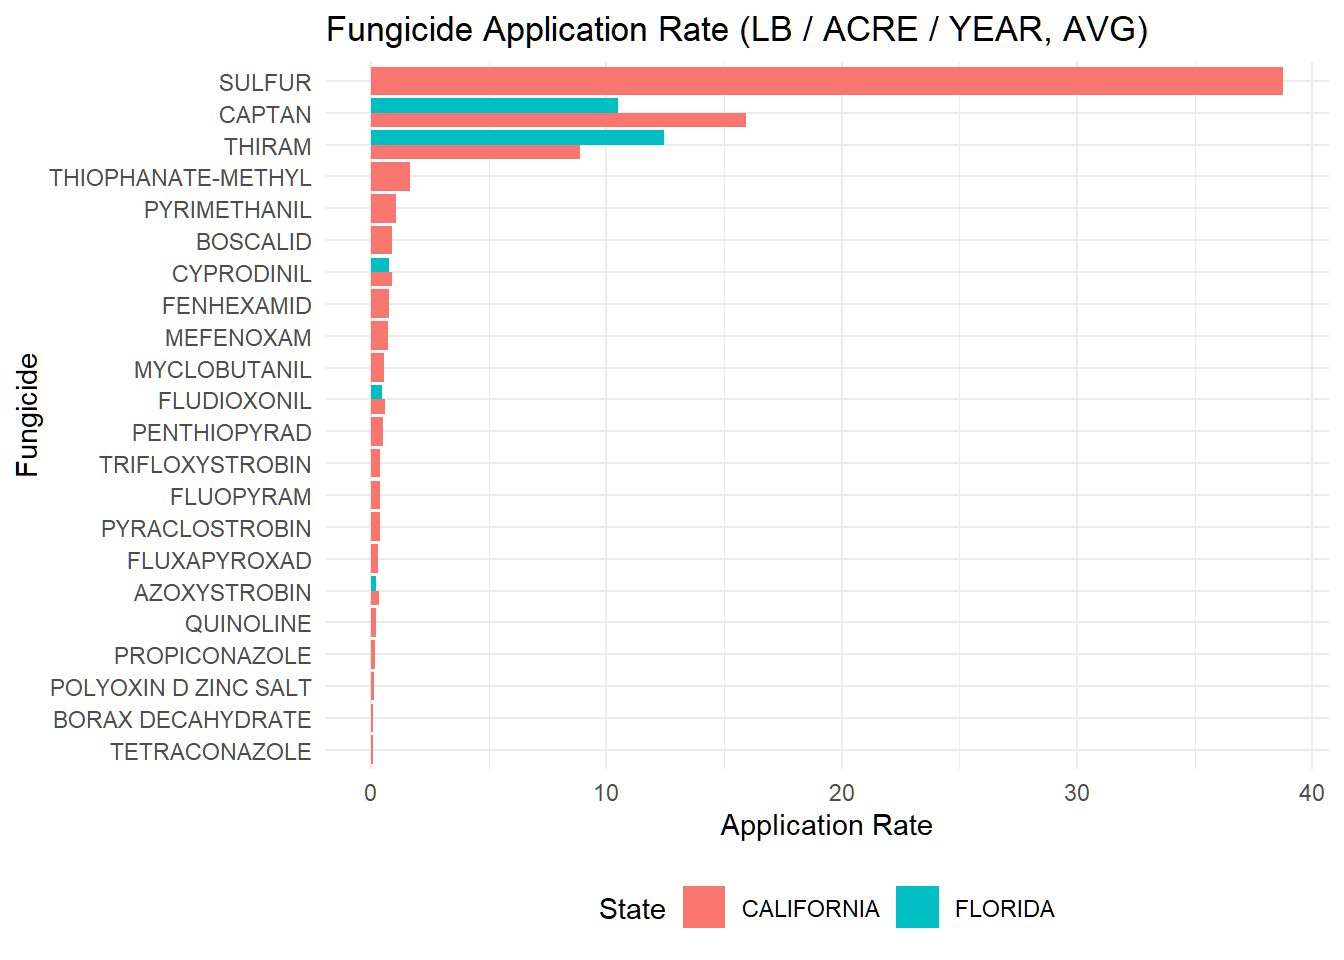
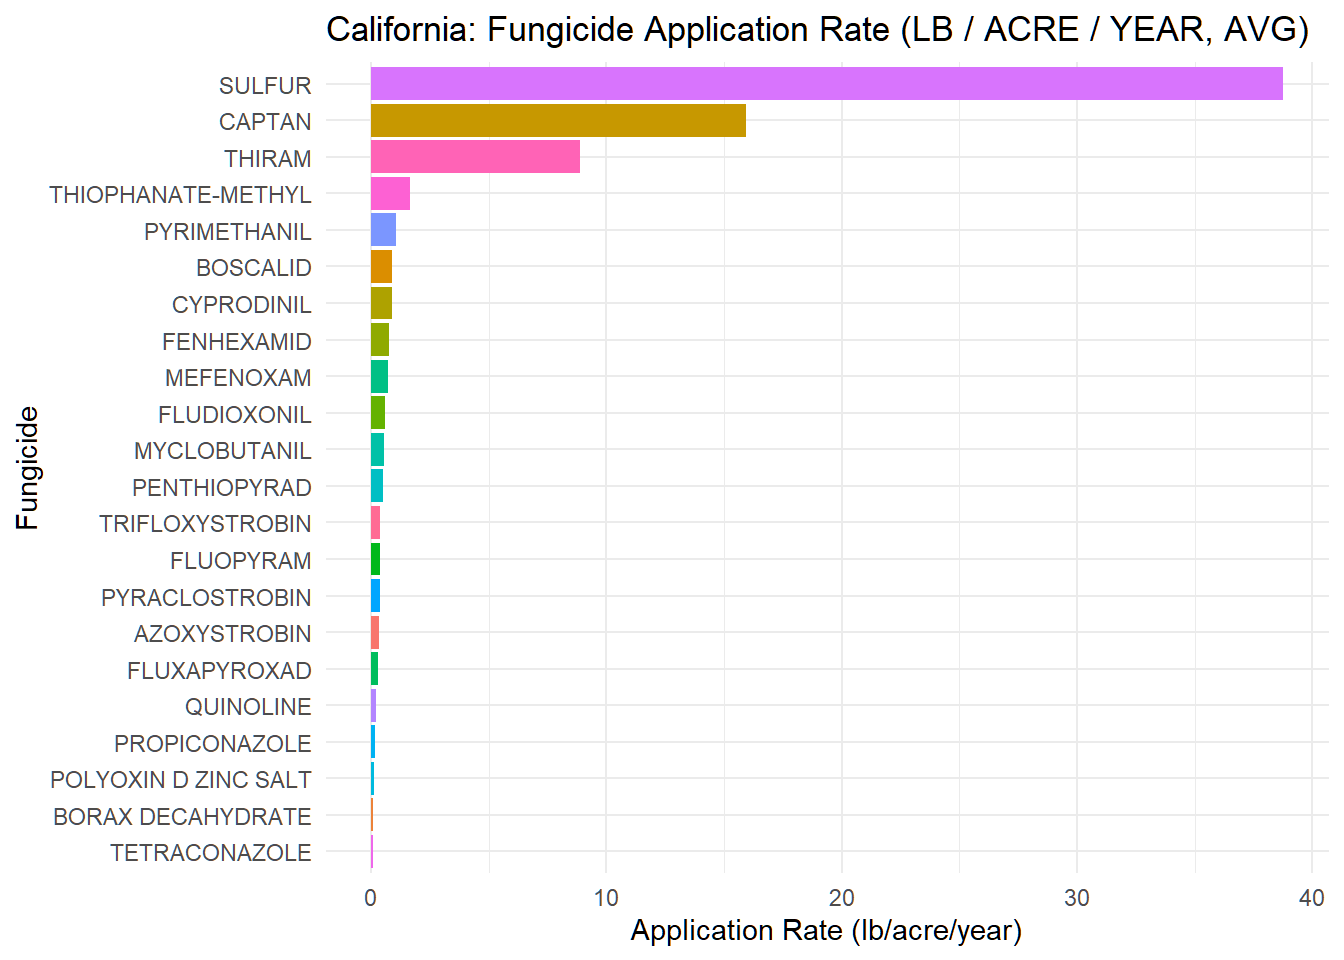
commit 1029 combined 3 version

diff --git a/strawberryfungicide.html b/strawberryfungicide.html
@@ -6,6 +6,9 @@
 
 <meta name="viewport" content="width=device-width, initial-scale=1.0, user-scalable=yes">
 
+<meta name="author" content="Tingji Tao">
+<meta name="author" content="Zhirui Gu">
+<meta name="author" content="Jizhou Zhang">
 
 <title>Strawberry Fungicide Analysis</title>
 <style>
@@ -52,6 +55,14 @@ ul.task-list li input[type="checkbox"] {
 
 <div class="quarto-title-meta">
 
+    <div>
+    <div class="quarto-title-meta-heading">Authors</div>
+    <div class="quarto-title-meta-contents">
+             <p>Tingji Tao </p>
+             <p>Zhirui Gu </p>
+             <p>Jizhou Zhang </p>
+          </div>
+  </div>
     
   
     
@@ -62,7 +73,16 @@ ul.task-list li input[type="checkbox"] {
 </header>
 
 
-<p>#First, take a look at the data from NASS</p>
+<section id="introduction" class="level1">
+<h1>Introduction</h1>
+<p>Strawberries represent one of the most economically important specialty crops in the United States, with production concentrated primarily in <strong>California</strong> and <strong>Florida</strong>. Effective disease management is essential to maintain yield and quality, and fungicides remain a central component of integrated pest management (IPM) strategies in both states. However, variations in climate, pest pressure, and regulatory frameworks have led to regional differences in fungicide usage intensity and composition.<br>
+</p>
+<p>This report analyzes recent fungicide application data from the USDA National Agricultural Statistics Service (NASS) to identify patterns and trends in the <strong>types, rates, and treated areas</strong> of fungicides used in California and Florida from <strong>2018 to 2023</strong>. The goal is to understand which fungicides dominate regional use, how their application levels have changed over time, and what these patterns imply for sustainable disease management in strawberry production.</p>
+<div style="page-break-after: always;"></div>
+</section>
+<section id="step-1-data-clean" class="level1">
+<h1>Step 1: Data Clean</h1>
+<p>First, take a look at the data from NASS</p>
 <div class="cell">
 <div class="cell-output cell-output-stdout">
 <pre><code>Rows: 758
@@ -90,7 +110,7 @@ $ Value            &lt;chr&gt; " (D)", " (D)", " (D)", "0.326", " (NA)", " (NA)"
 $ CV....           &lt;lgl&gt; NA, NA, NA, NA, NA, NA, NA, NA, NA, NA, NA, NA, NA, N…</code></pre>
 </div>
 </div>
-<p>#After scan the dataset, we noticed there are a lot of empty cols, so we decide to clean up these cols.</p>
+<p>After scan the dataset, we noticed there are a lot of empty cols, so we decide to clean up these cols.</p>
 <div class="cell">
 <div class="cell-output cell-output-stdout">
 <pre><code>[1] "col dropped:"
@@ -100,7 +120,7 @@ $ CV....           &lt;lgl&gt; NA, NA, NA, NA, NA, NA, NA, NA, NA, NA, NA, NA, N
 [13] "Commodity"        "Domain"           "CV...."          </code></pre>
 </div>
 </div>
-<p>#Then, check if there are other strange values</p>
+<p>Then, check if there are other strange values</p>
 <div class="cell">
 <div class="cell-output cell-output-stdout">
 <pre><code>Rows: 758
@@ -113,8 +133,8 @@ $ Domain.Category &lt;chr&gt; "CHEMICAL, FUNGICIDE: (OXATHIAPIPROLIN = 128111)",
 $ Value           &lt;chr&gt; " (D)", " (D)", " (D)", "0.326", " (NA)", " (NA)", " (…</code></pre>
 </div>
 </div>
-<p>#Some of the values are labeled as (D), which means they were withheld to avoid disclosing data for individual operations. #These entries are removed to retain only the usable and publicly available data for analysis.</p>
-<p>#Lastly, separate Domain.category and Data.item to get a clearer data set</p>
+<p>Some of the values are labeled as (D) and (NA), which means they were withheld to avoid disclosing data for individual operations. These entries are removed to retain only the usable and publicly available data for analysis.</p>
+<p>Lastly, separate Domain.category and Data.item to get a clearer data set</p>
 <div class="cell">
 <div class="cell-output cell-output-stdout">
 <pre><code>  Year      State State.ANSI          Chem_Group         Fungicide   Code
@@ -133,10 +153,12 @@ $ Value           &lt;chr&gt; " (D)", " (D)", " (D)", "0.326", " (NA)", " (NA)",
 6  0.753 APPLICATIONS LB / ACRE / YEAR, AVG     BEARING</code></pre>
 </div>
 </div>
-<p>#The data set now is perfectly cleaned and time for some analysis</p>
+<p>The data set now is perfectly cleaned and time for some analysis</p>
 <div style="page-break-after: always;"></div>
-<p>##Some EDAs</p>
-<p>#We want to find the most popular fungicide for both states, let’s focus on 2023 data</p>
+</section>
+<section id="step-2-edas" class="level1">
+<h1>Step 2: EDAs</h1>
+<p>We want to find the most popular fungicide for both states, let’s focus on 2023 data</p>
 <section id="fungicide-comparison-by-measurement-type2023" class="level2">
 <h2 class="anchored" data-anchor-id="fungicide-comparison-by-measurement-type2023">Fungicide Comparison by Measurement Type(2023)</h2>
 <div class="cell">
@@ -147,12 +169,16 @@ $ Value           &lt;chr&gt; " (D)", " (D)", " (D)", "0.326", " (NA)", " (NA)",
 </figure>
 </div>
 </div>
+<div class="cell-output-display">
+<div>
+<figure class="figure">
+<p><img src="strawberryfungicide_files/figure-html/2023fungicide%20LB/ACRE/YEAR,%20avg%20plot-2.png" class="img-fluid figure-img" width="672"></p>
+</figure>
 </div>
-<p>This bar chart compares the average fungicide application rate (in pounds per acre per year) across different active ingredients in California and Florida.</p>
-<p>Sulfur stands out overwhelmingly, with an average rate near 40 lb/acre/year in California — far higher than any other fungicide.</p>
-<p>Captan and Thiram follow, both above 10 lb/acre/year, and are used in both states.</p>
-<p>All other fungicides (e.g., Boscalid, Fludioxonil, Fenhexamid) show application rates below 2 lb/acre/year, indicating much lighter use.</p>
-<p>Florida’s bars appear shorter for most fungicides, suggesting lower per-acre application intensity compared to California.</p>
+</div>
+</div>
+<p>This bar chart compares the average fungicide application rate (in pounds per acre per year) across different active ingredients in California and Florida. Sulfur stands out overwhelmingly, with an average rate near 40 lb/acre/year in California — far higher than any other fungicide. Captan and Thiram follow, both above 10 lb/acre/year, and are used in both states. All other fungicides (e.g., Boscalid, Fludioxonil, Fenhexamid) show application rates below 2 lb/acre/year, indicating much lighter use.</p>
+<p>The other figure shows the average application rate of each fungicide in Florida. Thiram and Captan exhibit the highest per-acre usage intensity, while other fungicides such as Cyprodinil and Fludioxonil are applied at much lower rates. These results indicate that Thiram and Captan remain the most intensively used fungicides in Florida’s strawberry production system.</p>
 <div style="page-break-after: always;"></div>
 <div class="cell">
 <div class="cell-output-display">
@@ -162,15 +188,22 @@ $ Value           &lt;chr&gt; " (D)", " (D)", " (D)", "0.326", " (NA)", " (NA)",
 </figure>
 </div>
 </div>
+<div class="cell-output-display">
+<div>
+<figure class="figure">
+<p><img src="strawberryfungicide_files/figure-html/2023fungicide%20PCT%20of%20area%20bearing,%20avg%20plot-2.png" class="img-fluid figure-img" width="672"></p>
+</figure>
 </div>
-<p>Both states treat over 90% of the area with several fungicides, notably Captan, Fludioxonil, and Trifloxystrobin, suggesting these are key products for disease management.</p>
-<p>Sulfur and Cyprodinil also cover more than 70% of the area in California.</p>
-<p>A few fungicides (e.g., Boscalid, Azoxystrobin) have notably lower coverage (&lt;30%), implying selective or limited usage.</p>
-<p>Overall, Florida and California have similar fungicide portfolios, but Florida exhibits slightly higher treated percentages for the top few fungicides.</p>
-<p>#Sulfur,Captan and Thiram are the top 3 fungicide used in both California and Florida</p>
+</div>
+</div>
+<p>In 2023, California and Florida exhibited broadly similar fungicide portfolios but differed in coverage intensity. In California, Sulfur and Cyprodinil covered over 70% of the bearing area, highlighting their dominant roles in disease control. Captan, Fludioxonil, and Trifloxystrobin also maintained coverage levels above 90%, indicating widespread adoption, while minor fungicides such as Boscalid and Azoxystrobin had limited use below 30%. In Florida, Captan remained the most widely used fungicide, treating nearly all strawberry acreage, followed by Thiram and Fludioxonil, each covering more than 80% of the bearing area. Overall, Florida showed slightly higher coverage rates than California for most top fungicides, reflecting a more intensive use pattern. Together, these results confirm that <strong>Captan, Sulfur, and Thiram</strong> are the three core fungicides shared by both states, forming the backbone of strawberry disease management programs.</p>
+<hr>
 <div style="page-break-after: always;"></div>
-<p>##Now we want to find out the trends of these 3 fungicides for 2018-2023</p>
-<p>#In California</p>
+</section>
+<section id="trends-of-these-3-fungicides-for-2018-2023" class="level2">
+<h2 class="anchored" data-anchor-id="trends-of-these-3-fungicides-for-2018-2023">Trends of these 3 fungicides for 2018-2023</h2>
+<section id="in-california" class="level3">
+<h3 class="anchored" data-anchor-id="in-california">In California</h3>
 <div class="cell">
 <div class="cell-output-display">
 <div>
@@ -185,37 +218,42 @@ $ Value           &lt;chr&gt; " (D)", " (D)", " (D)", "0.326", " (NA)", " (NA)",
 <p>Captan maintained a moderate but steady upward trend, increasing from about 6 lb/acre to 15 lb/acre, reflecting stable and continued use in integrated disease management.</p>
 <p>Thiram, while used at much lower rates overall, also shows a mild increase since 2021, likely indicating its continued but targeted role in specific disease control.</p>
 <p>Overall, the figure indicates that while sulfur remains the dominant fungicide by application rate, captan and thiram are complementary components of California’s fungicide regimen. The sharp rise of sulfur use in 2023 may be linked to fungicide resistance management strategies or shifts in pest pressure under changing environmental conditions.</p>
-<div style="page-break-after: always;"></div>
-<div class="cell">
-<div class="cell-output-display">
-<div>
-<figure class="figure">
-<p><img src="strawberryfungicide_files/figure-html/unnamed-chunk-6-1.png" class="img-fluid figure-img" width="672"></p>
-</figure>
-</div>
-</div>
-</div>
-<p>Figure X illustrates the percentage of strawberry-bearing area treated with three major fungicides — Captan, Sulfur, and Thiram — between 2018 and 2023 in California.</p>
-<p>Sulfur maintains the highest overall treated area coverage throughout the period, fluctuating between 70–90%, indicating its broad and consistent use for disease control.</p>
-<p>Captan shows greater year-to-year variation, dropping after 2019 but sharply increasing again by 2023 to over 90%, suggesting changes in treatment intensity or replacement cycles.</p>
-<p>Thiram demonstrates the lowest coverage in early years but shows a steady rise after 2021, reflecting renewed or expanded use in certain disease management strategies.</p>
-<p>In general, all three fungicides maintain high levels of treated area, showing that multi-product programs are a core feature of California’s strawberry disease management system.</p>
-<div style="page-break-after: always;"></div>
-<p>#In Florida</p>
-<div class="cell">
-<div class="cell-output-display">
-<div>
-<figure class="figure">
-<p><img src="strawberryfungicide_files/figure-html/unnamed-chunk-7-1.png" class="img-fluid figure-img" width="672"></p>
-</figure>
-</div>
-</div>
-</div>
-<p>Figure X presents the temporal trend of fungicide application rates for Captan and Thiram in Florida strawberry production from 2018 to 2023.</p>
-<p>Both fungicides show a notable rise in usage from 2018 to 2021, with Captan increasing from about 9 lb/acre to over 21 lb/acre and Thiram from roughly 6 lb/acre to nearly 22 lb/acre. This pattern suggests intensified fungicide application in response to higher disease pressure or increased acreage during this period.</p>
-<p>After 2021, both fungicides display a downward trend, with average rates declining by roughly 40–50% by 2023, which may indicate improved pest management efficiency, reduced disease severity, or substitution with other active ingredients.</p>
-<p>Interestingly, the gap between Captan and Thiram narrows over time, implying greater overlap in their functional roles or alternating use as resistance management strategies.</p>
-<p>Overall, the figure reflects a cycle of intensified use followed by decline, characteristic of adaptive chemical management practices in Florida’s strawberry production system.</p>
+<table class="caption-top table">
+<colgroup>
+<col style="width: 100%">
+</colgroup>
+<thead>
+<tr class="header">
+<th style="text-align: left;"></th>
+</tr>
+</thead>
+<tbody>
+<tr class="odd">
+<td style="text-align: left;"></td>
+</tr>
+<tr class="even">
+<td style="text-align: left;">### In Florida</td>
+</tr>
+<tr class="odd">
+<td style="text-align: left;">::: {.cell} ::: {.cell-output-display} <img src="strawberryfungicide_files/figure-html/unnamed-chunk-7-1.png" class="img-fluid" width="672"> ::: :::</td>
+</tr>
+<tr class="even">
+<td style="text-align: left;">Figure X presents the temporal trend of fungicide application rates for Captan and Thiram in Florida strawberry production from 2018 to 2023.</td>
+</tr>
+<tr class="odd">
+<td style="text-align: left;">Both fungicides show a notable rise in usage from 2018 to 2021, with Captan increasing from about 9 lb/acre to over 21 lb/acre and Thiram from roughly 6 lb/acre to nearly 22 lb/acre. This pattern suggests intensified fungicide application in response to higher disease pressure or increased acreage during this period.</td>
+</tr>
+<tr class="even">
+<td style="text-align: left;">After 2021, both fungicides display a downward trend, with average rates declining by roughly 40–50% by 2023, which may indicate improved pest management efficiency, reduced disease severity, or substitution with other active ingredients.</td>
+</tr>
+<tr class="odd">
+<td style="text-align: left;">Interestingly, the gap between Captan and Thiram narrows over time, implying greater overlap in their functional roles or alternating use as resistance management strategies.</td>
+</tr>
+<tr class="even">
+<td style="text-align: left;">Overall, the figure reflects a cycle of intensified use followed by decline, characteristic of adaptive chemical management practices in Florida’s strawberry production system.</td>
+</tr>
+</tbody>
+</table>
 <div style="page-break-after: always;"></div>
 <div class="cell">
 <div class="cell-output-display">
@@ -231,6 +269,21 @@ $ Value           &lt;chr&gt; " (D)", " (D)", " (D)", "0.326", " (NA)", " (NA)",
 <p>Thiram, in contrast, shows a steady and moderate increase throughout the same period, rising from around 35% to over 60%. The gradual rise implies expanding adoption or complementary use alongside Captan.</p>
 <p>By 2021–2023, both fungicides converge around similar coverage levels (~60%), reflecting a potential balancing strategy to diversify disease control and delay resistance development.</p>
 <p>Overall, Florida’s treated area trends highlight a dynamic adjustment in fungicide usage — where Captan remains dominant but Thiram’s role has steadily expanded, possibly as part of integrated pest management (IPM) efforts.</p>
+<hr>
+<div style="page-break-after: always;"></div>
+</section>
+</section>
+<section id="next-steps" class="level2">
+<h2 class="anchored" data-anchor-id="next-steps">Next steps</h2>
+<p>Add an OMRI(Organic Materials Review Institute) or similar reference list to improve the mapping.</p>
+<p>If we get more states, make a map.</p>
+</section>
+</section>
+<section id="conclusion" class="level1">
+<h1>Conclusion</h1>
+<p>The analysis reveals that Captan, Sulfur, and Thiram form the core set of fungicides widely adopted across both California and Florida, indicating their central role in strawberry disease management systems. California demonstrates a steadily increasing reliance on Sulfur, while Florida shows more dynamic changes, with Captan and Thiram exhibiting cyclical usage patterns. Overall, both states maintain high levels of fungicide coverage—typically exceeding 70% of the bearing area—reflecting intensive disease control efforts.<br>
+</p>
+<p>These results highlight the importance of balancing chemical control with sustainable management practices. Continued monitoring of fungicide trends is crucial to prevent resistance development and ensure long-term productivity in U.S. strawberry farming.</p>
 </section>
 
 </main>
